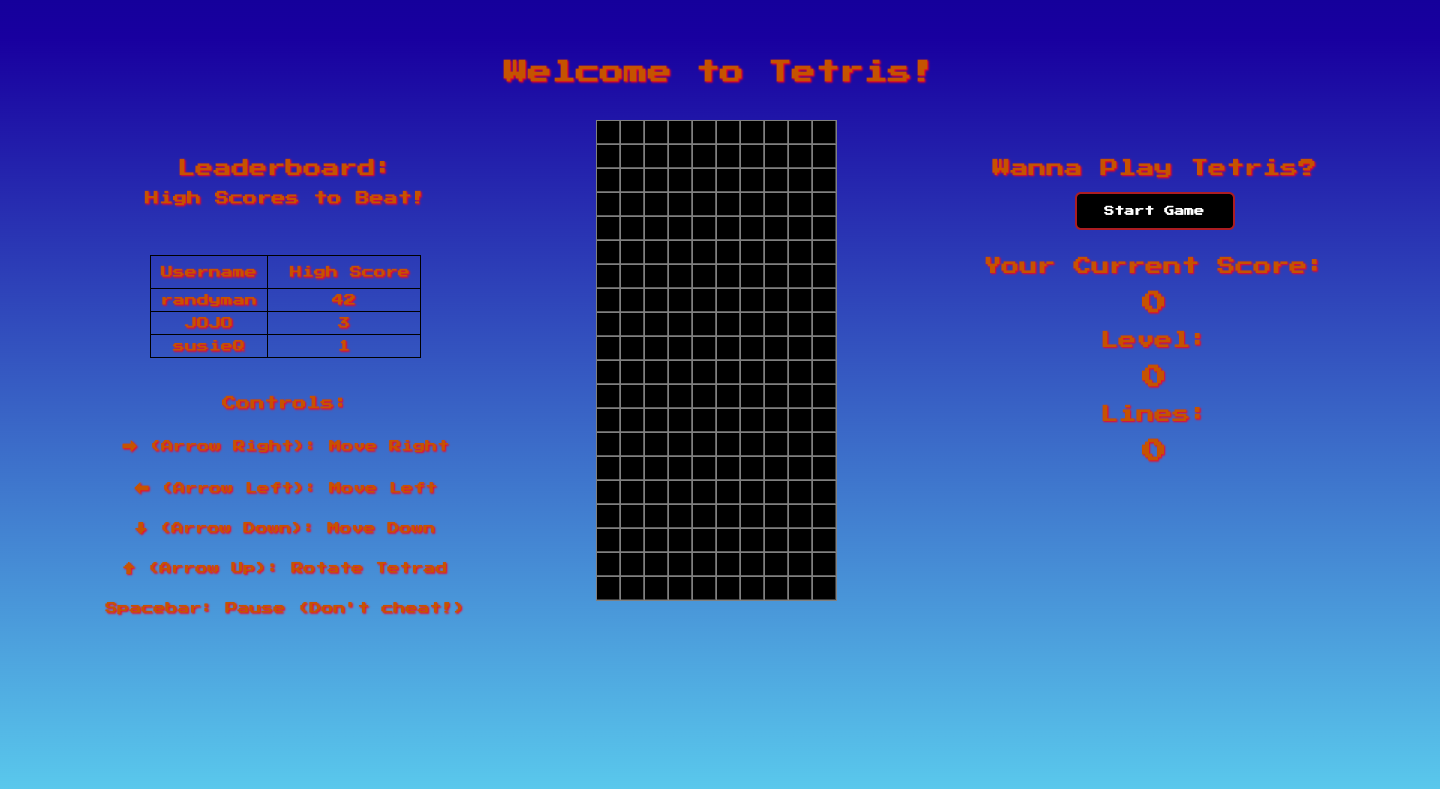
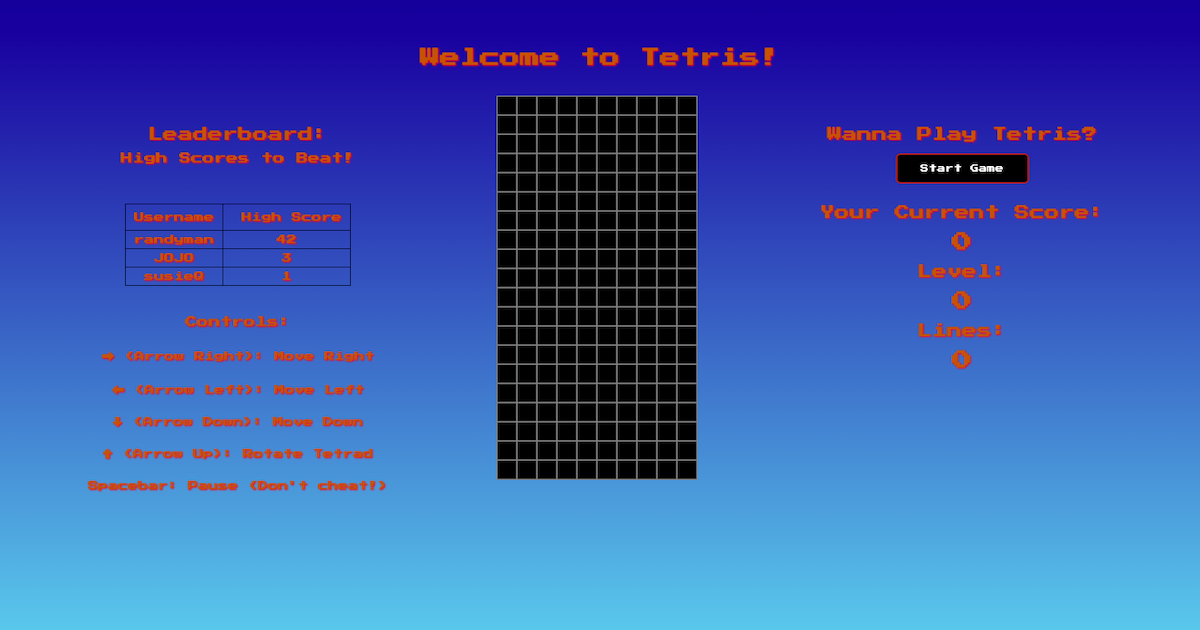
Fixing thumbnail dimensions

Changed region(s): [[0.1233, 0.3016, 0.2775, 0.4524], [0.74, 0.2413, 0.8633, 0.3016], [0.4008, 0.1508, 0.5858, 0.181]]

diff --git a/index.html b/index.html
@@ -3,6 +3,8 @@
 
   <head>
     <meta property="og:image" content="%PUBLIC_URL%/thumbnail.png" />
+    <meta property="og:image:width" content="1200" />
+<meta property="og:image:height" content="630" />
     <meta property="og:title" content="T3TRIS" />
     <meta property="og:type" content="website" />
     <meta property="og:url" content="http://mod-3-tetris.herokuapp.com/" />
